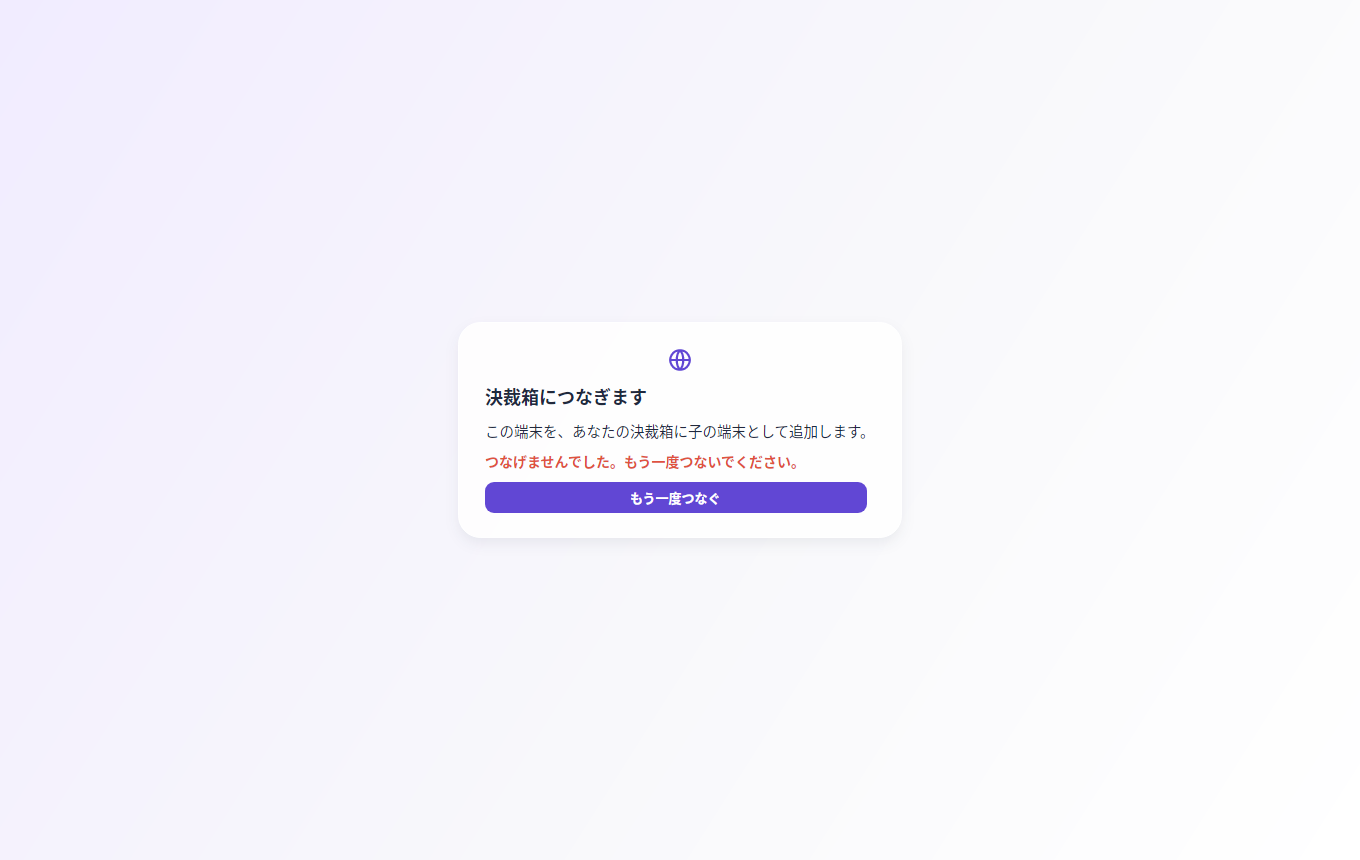
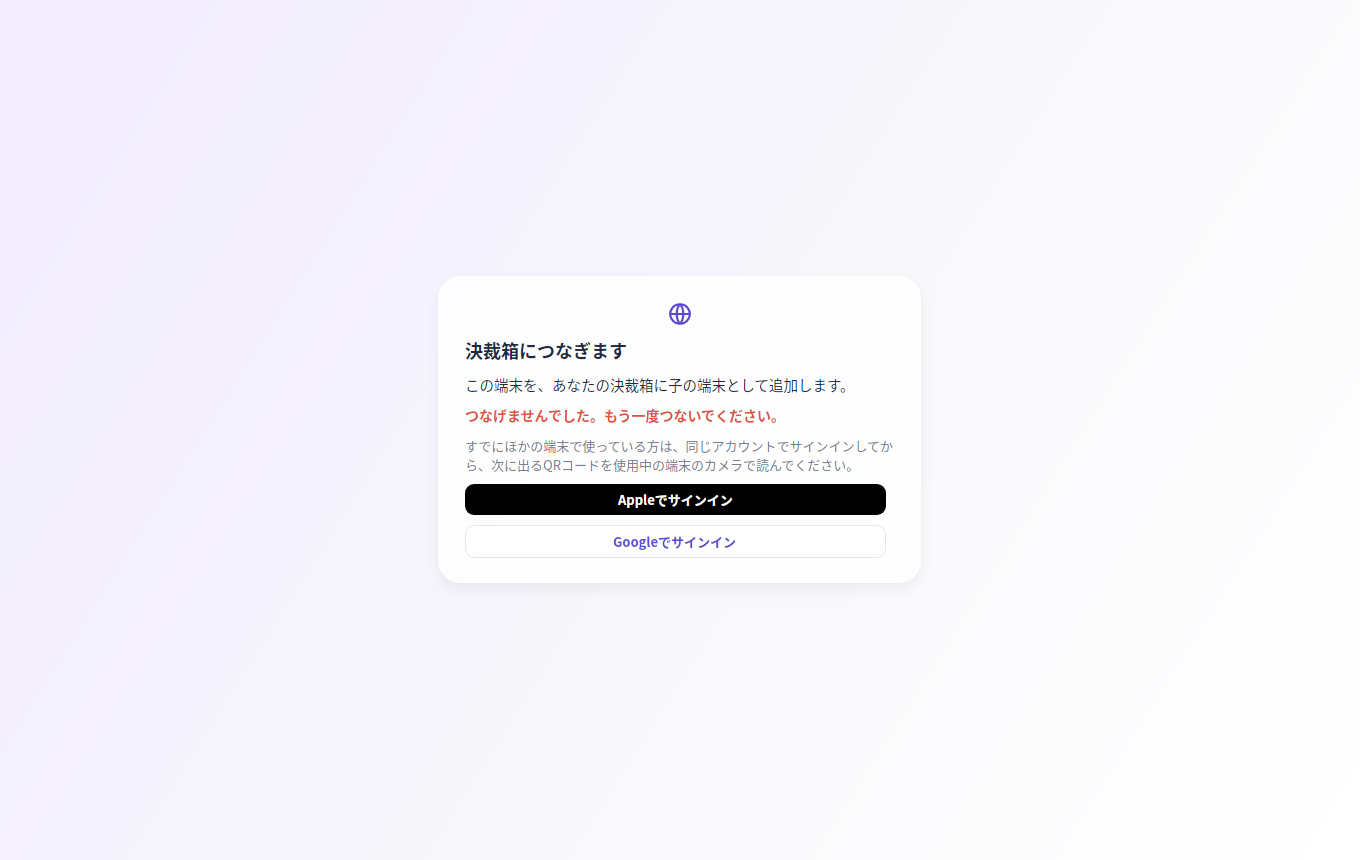
abx-child-join: requestJoin always takes the provider; a failure asks the same sign-in again; notJoined(removed) shows the two buttons (child-join.md #2555)

Changed region(s): [[0.3397, 0.3628, 0.6485, 0.6349]]

diff --git a/linux/BellTeam.Linux.Tests/ApprovalsChildJoinTests.cs b/linux/BellTeam.Linux.Tests/ApprovalsChildJoinTests.cs
@@ -76,14 +76,22 @@ public sealed class ApprovalsChildJoinTests
     });
 
     [Fact]
-    public Task FailedAndRemovedOfferTryAgainWithTheirOwnWords() => Ui.Run(async () =>
+    public Task FailedAsksTheSameSignInAgainAndRemovedStartsClean() => Ui.Run(async () =>
     {
-        var (failed, source, _) = await OpenAsync(new(JoinPhase.Failed));
-        try { Assert.True(Has(failed, ChildJoinText.Failed)); Click(Find(failed, ChildJoinText.ConnectAgain)!); Assert.Equal(["join:again"], source.Calls); } finally { failed.Close(); }
+        // After a sign-in the person chose, a failure offers 「もう一度つなぐ」 with that provider; a failure with no choice known shows the two buttons (requestJoin always takes a provider).
+        var (started, startedSource, startedDevice) = await OpenAsync(new(JoinPhase.NotJoined));
+        try
+        {
+            Click(Find(started, SignInText.Google)!); startedSource.Current = new(JoinPhase.Failed); startedDevice.Refresh(); await Task.Delay(100); Avalonia.Threading.Dispatcher.UIThread.RunJobs();
+            Assert.True(Has(started, ChildJoinText.Failed)); Click(Find(started, ChildJoinText.ConnectAgain)!); Assert.Equal(["join:google", "join:google"], startedSource.Calls);
+        }
+        finally { started.Close(); }
+        var (failed, _, _) = await OpenAsync(new(JoinPhase.Failed));
+        try { Assert.True(Has(failed, ChildJoinText.Failed)); Assert.Null(Find(failed, ChildJoinText.ConnectAgain)); Assert.NotNull(Find(failed, SignInText.Apple)); Assert.NotNull(Find(failed, SignInText.Google)); } finally { failed.Close(); }
         var (other, _, _) = await OpenAsync(new(JoinPhase.Failed, Code: "other_account"));
         try { Assert.True(Has(other, ChildJoinText.OtherAccount)); Assert.False(Has(other, "other_account")); } finally { other.Close(); }
         var (removed, _, _) = await OpenAsync(new(JoinPhase.NotJoined, Removed: true));
-        try { Assert.True(Has(removed, ChildJoinText.Removed)); Assert.NotNull(Find(removed, ChildJoinText.ConnectAgain)); } finally { removed.Close(); }
+        try { Assert.True(Has(removed, ChildJoinText.Removed)); Assert.True(Has(removed, ChildJoinText.Title)); Assert.NotNull(Find(removed, SignInText.Apple)); Assert.NotNull(Find(removed, SignInText.Google)); } finally { removed.Close(); }
     });
 
     [Fact]

diff --git a/linux/BellTeam.Linux/ApprovalsChildJoin.cs b/linux/BellTeam.Linux/ApprovalsChildJoin.cs
@@ -13,6 +13,9 @@ namespace BellTeam.Linux;
 internal sealed partial class ApprovalsWindow
 {
     private bool leaving;   // 「つなぎを外す」 asked once: 外す / やめる
+    private string? lastProvider;   // the button last pressed: 「もう一度つなぐ」 asks the same sign-in again (requestJoin always takes a provider)
+
+    private void Request(string provider) { lastProvider = provider; Device?.RequestJoin(provider); }
 
     private ChildJoinState? Join => Device?.Join;
     /// <summary>The not-joined screen (and the waiting one) takes the whole window.</summary>
@@ -44,13 +47,13 @@ internal sealed partial class ApprovalsWindow
                 column.Children.Add(Text(SignInText.Waiting, 14, Muted, wrap: true));
                 column.Children.Add(Wide(Action(SignInText.Cancel, null), () => Device?.CancelJoin()));
             }
-            else if (join.Phase == JoinPhase.Failed || join.Removed) column.Children.Add(Wide(Action(ChildJoinText.ConnectAgain, null, true), () => Device?.RequestJoin(null)));
+            else if (join.Phase == JoinPhase.Failed && lastProvider is { } again) column.Children.Add(Wide(Action(ChildJoinText.ConnectAgain, null, true), () => Request(again)));
             else
             {
                 column.Children.Add(Text(LocalFormText.FirstSignIn, 13, Muted, wrap: true));
                 // Apple's rule: its button is black and the first, and the only black one.
-                var apple = Wide(Action(SignInText.Apple, null, true), () => Device?.RequestJoin("apple")); apple.Background = Brushes.Black; apple.Foreground = Brushes.White;
-                column.Children.Add(apple); column.Children.Add(Wide(Action(SignInText.Google, null), () => Device?.RequestJoin("google")));
+                var apple = Wide(Action(SignInText.Apple, null, true), () => Request("apple")); apple.Background = Brushes.Black; apple.Foreground = Brushes.White;
+                column.Children.Add(apple); column.Children.Add(Wide(Action(SignInText.Google, null), () => Request("google")));
             }
         }
         var card = Glass(column, 22, new Thickness(26, 24)); card.MaxWidth = 520; card.HorizontalAlignment = HorizontalAlignment.Center; card.VerticalAlignment = VerticalAlignment.Center;

diff --git a/linux/BellTeam.Linux/ApprovalSource.cs b/linux/BellTeam.Linux/ApprovalSource.cs
@@ -24,15 +24,15 @@ internal interface IApprovalSource
 
     // The child join (child-join.md, "The port"): requestJoin / cancelJoin / leave of the Approval Box client component. null = this adapter has no child join (the window keeps its sign-in note); the screen is drawn only when it is set.
     ChildJoinState? Join => null;
-    /// <summary>provider "apple" | "google" = the button the person pressed; null = again, with the library's kept sign-in.</summary>
-    void RequestJoin(string? provider) { }
+    /// <summary>provider "apple" | "google" (the component's requestJoin(provider), child-join.md): the button the person pressed.</summary>
+    void RequestJoin(string provider) { }
     void CancelJoin() { }
     Task LeaveAsync() => Task.CompletedTask;
 }
 
 /// <summary>The component's joinState (child-join.md): NotJoined, SigningIn (notJoined while the browser sign-in of requestJoin runs), Waiting (waitingForParent: the library's join link and its expiry), Failed (a refusal or library failure; the library's code picks the sentence, only other_account has its own, and is never shown), Joined.
-/// Removed: the parent took this device off (a /v1 401 on a joined child), shown once above the not-joined screen.</summary>
-internal enum JoinPhase { NotJoined, SigningIn, Waiting, Failed, Joined }
+/// Removed = notJoined(removed): the parent took this device off, shown above the not-joined screen, which starts clean.</summary>
+internal enum JoinPhase { NotJoined, SigningIn, Waiting, Failed, Joined }   // SigningIn = signingIn(provider)
 internal sealed record ChildJoinState(JoinPhase Phase, string? QrLink = null, DateTimeOffset? ExpiresAt = null, bool Removed = false, string? Code = null);
 
 /// <summary>The peer adapter: this device's /pc/v1 session (<see cref="IDeviceDecisions"/>) behind the port.</summary>

diff --git a/linux/BellTeam.Linux/ApprovalsJoinFixture.cs b/linux/BellTeam.Linux/ApprovalsJoinFixture.cs
@@ -9,7 +9,7 @@ internal sealed class JoinFixtureSource(IApprovalSource inner, ChildJoinState jo
     public ChildJoinState Current { get; set; } = join;
     public readonly List<string> Calls = [];
     public ChildJoinState? Join => Current;
-    public void RequestJoin(string? provider) => Calls.Add("join:" + (provider ?? "again"));
+    public void RequestJoin(string provider) => Calls.Add("join:" + provider);
     public void CancelJoin() => Calls.Add("cancel");
     public Task LeaveAsync() { Calls.Add("leave"); Current = new(JoinPhase.NotJoined); inner.Refresh(); return Task.CompletedTask; }
 

diff --git a/docs/linux-architecture.md b/docs/linux-architecture.md
@@ -38,7 +38,7 @@ flowchart LR
 - `BellTeam.Core`の所有者はアニス。LinuxはそのままProject参照で使い、Coreを変える時は小さなPRでアニスをレビューに入れる。条件はWindowsの挙動を変えないこと、[Windowsアーキテクチャ](windows-architecture.md)のCoreの節を同じ差分で更新すること、実行したBellTeam.Testsの範囲をPRに書くこと（2026-11-12 アニス合意）。
 - `Workspace`（会話一覧・会話・送信・SSE・再接続・下書き）はWindowsの`BellTeam.App`からCoreへ移し、画像の型とUIスレッドへの戻りだけを各アプリが渡す。Windowsは`Workspace : Core.Workspace<BitmapSource>`で呼び出し側を変えない。
 - 機械席（Claude machine mode）の質問と承認（a471）：履歴の`machine_event`のうち、`view`が`question`か`approval`の行は会話ログの白いカード（`MachineRequestCard`）として描く。質問は1問1答なら選択肢を押した時点で答え、複数問・複数選択は選んでから「送る」。「その他」は自由文。承認は「許可」「拒否」。答えは`POST /api/seat-requests/:request_id/answer`だけで返し、画面読み取りもキー送信もしない。`status`が`pending`以外のカードは選択肢を出さず結果の行にする。何も隠さない（`hide`は無く、`fold`以外の`display`は`show`）。`fold`の行は開閉できる1行（`MachineEntry`。既定は閉じ、押すと全文、`truncated`なら「全文を読み込む」で`GET /api/bots/:id/machine-events/:seq`の保存行）で、隣り合う同じ`fold_group`だけを1行にまとめ（Coreの`Timeline.VisibleMachine`。どの行も時間の位置から動かさず、`tool_result`を`tool_use`の下へ引き上げない）、行の名前は`fold_count`の合計n（無ければ1）で決める（`Timeline.FoldLabel`。n>1は「tools ×2」「hook ×3」、n=1は`fold_count`が1の行のメッセージ＝道具名、n=0は「group ×行数」）。開くとその行を時間順に並べ、各行はそれぞれ閉じた1行で、開くと全文（`tool_use`は`tool.summary`）。本体が`tool_use`を畳むと`tools`の行になり、畳まれる前の本体の`show`の`tool_use`は道具名と要約の1行のまま。開閉はアプリの状態で保存しない。`words`の行は、本体が`bubble: true`を付けた行（終わったターンの最後の発言）だけを通常の受信メッセージの吹き出し（保存済みメッセージと同じMarkdown描画）で描き、それ以外の`words`は吹き出しの無い1本の文章で描く（どれが最後かはアプリが決めず、`bubble`だけを読む。印は同じidの行へ後から付き、描き直す。a471-tune-answer。契約は[machine-stream.md](architecture/modules/conversation/machine-stream.md)「Turn answer bubble」）。会話は最初の1ページ（30件）を読んだあと、畳まれた行が多くて行が画面（表示領域）を埋めない間は、古いページを自動で読み続け、埋まるか古い分が無くなるまで続ける（窓を広げた時も同じ。a471-thinking-linux。スクロールと「以前のメッセージを読む」は今まで通り）。見た目と動きはWindowsと同じ。データ側（`TimelineMessage.MachineEvent`・`AnswerSeatRequestAsync`）は[Windowsアーキテクチャ](windows-architecture.md)のCoreの節（アニス）が正本。
-- 決裁箱の子としてのつなぎ（abx-child-join。契約は[child-join.md](architecture/modules/approval-box-extension/child-join.md)、オーナー2026-11-24「Aだ」：BellTeamの決裁箱ウィンドウは、オーナーのApproval Boxに子の端末として入る。親にはならない）：画面は1つ（Androidは同じ`ApprovalsWindow`なので同じ）。ポート`IApprovalSource`に`Join`（`ChildJoinState`：NotJoined・SigningIn・Waiting（ライブラリのjoinリンクと期限）・Failed（コード）・Joined。親に外された時は`Removed`）と`RequestJoin(provider)`・`CancelJoin()`・`LeaveAsync()`を足した（部品の`requestJoin`・`cancelJoin`・`leave`）。`Join`が無いアダプターは今まで通りで、画面は`Join`がある時だけ出る。未接続の間はウィンドウ全体が1枚：「決裁箱につなぎます」・「この端末を、あなたの決裁箱に子の端末として追加します。」・最初の画面と同じサインイン（`LocalFormText.FirstSignIn`・黒い「Appleでサインイン」が先・「Googleでサインイン」）；サインイン中は`SignInText.Waiting`と「やめる」；`Waiting`は「決裁箱の承認を待っています」・QR（ラベル「決裁箱につなぐQRコード」・280px）・「H:mm まで有効」・オーナーのQRの文`LocalFormText.Qr`・「やめる」；失敗は`ChildJoinText.FailedLine(code)`（other_accountだけ専用の文）と「もう一度つなぐ」；親に外された時は「決裁箱で、この端末のつなぎが外されました。」と「もう一度つなぐ」。つながった後は普通の決裁箱で、「工程表との連携」の欄に「決裁箱につながっています」と「つなぎを外す」（2段：外す／やめる。BellTeam自身のサインインには触れない）。つないでいる・つなぎ直し・契約・更新の行は今までの帯のまま（言葉は契約の表と同じ）。語はアニスのCore（`ChildJoin.cs`の`ChildJoinText`）。「ほかの端末を追加する」・購入・プランは出ない（試験`ApprovalsChildJoinTests`）。**まだ部品につないでいない**：決裁箱のサインイン・lbq1・`PassProvider`をこのウィンドウから外す作業は、Nayuta（Approval Boxの部品）の.NET版が出てからで、いまのウィンドウの動作は変えていない。見え方：[未接続](linux-child-join-notjoined.png)・[サインイン中](linux-child-join-signing.png)・[承認待ち](linux-child-join-waiting.png)・[失敗](linux-child-join-failed.png)・[外された](linux-child-join-removed.png)・[つながっている](linux-child-join-live.png)（`--render-approvals-device child-notjoined|child-signing|child-waiting|child-failed|child-removed|child-live`）。
+- 決裁箱の子としてのつなぎ（abx-child-join。契約は[child-join.md](architecture/modules/approval-box-extension/child-join.md)、オーナー2026-11-24「Aだ」：BellTeamの決裁箱ウィンドウは、オーナーのApproval Boxに子の端末として入る。親にはならない）：画面は1つ（Androidは同じ`ApprovalsWindow`なので同じ）。ポート`IApprovalSource`に`Join`（`ChildJoinState`：NotJoined・SigningIn・Waiting（ライブラリのjoinリンクと期限）・Failed（コード）・Joined。親に外された時は`Removed`）と`RequestJoin(provider)`（apple｜google。必ず選んだ方を渡す）・`CancelJoin()`（サインイン中と承認待ちの両方で効く）・`LeaveAsync()`を足した（部品の`requestJoin`・`cancelJoin`・`leave`）。`Join`が無いアダプターは今まで通りで、画面は`Join`がある時だけ出る。未接続の間はウィンドウ全体が1枚：「決裁箱につなぎます」・「この端末を、あなたの決裁箱に子の端末として追加します。」・最初の画面と同じサインイン（`LocalFormText.FirstSignIn`・黒い「Appleでサインイン」が先・「Googleでサインイン」）；サインイン中は`SignInText.Waiting`と「やめる」；`Waiting`は「決裁箱の承認を待っています」・QR（ラベル「決裁箱につなぐQRコード」・280px）・「H:mm まで有効」・オーナーのQRの文`LocalFormText.Qr`・「やめる」；失敗は`ChildJoinText.FailedLine(code)`（other_accountだけ専用の文）と、さっき押した方のサインインでの「もう一度つなぐ」（押した方が分からない時は2つのボタン）；親に外された時（`notJoined(removed)`）は「決裁箱で、この端末のつなぎが外されました。」を未接続の画面の上に置き、ボタンはAppleとGoogleのまま。つながった後は普通の決裁箱で、「工程表との連携」の欄に「決裁箱につながっています」と「つなぎを外す」（2段：外す／やめる。BellTeam自身のサインインには触れない）。つないでいる・つなぎ直し・契約・更新の行は今までの帯のまま（言葉は契約の表と同じ）。語はアニスのCore（`ChildJoin.cs`の`ChildJoinText`）。「ほかの端末を追加する」・購入・プランは出ない（試験`ApprovalsChildJoinTests`）。**まだ部品につないでいない**：決裁箱のサインイン・lbq1・`PassProvider`をこのウィンドウから外す作業は、Nayuta（Approval Boxの部品）の.NET版が出てからで、いまのウィンドウの動作は変えていない。見え方：[未接続](linux-child-join-notjoined.png)・[サインイン中](linux-child-join-signing.png)・[承認待ち](linux-child-join-waiting.png)・[失敗](linux-child-join-failed.png)・[外された](linux-child-join-removed.png)・[つながっている](linux-child-join-live.png)（`--render-approvals-device child-notjoined|child-signing|child-waiting|child-failed|child-removed|child-live`）。
 - 席のツール承認（seat-approval-clients。契約は[seat-approvals.md](architecture/modules/execution/seat-approvals.md)、オーナー2026-11-24）：ツールの承認で止まった席（Claude Code・Codex）の承認を、BellTeamの中で答えられる。読み・答え・言葉はアニスのCore（`SeatApprovals.cs`の`SeatApproval`・`SeatApprovalText`、`Workspace.SeatApprovals`・`SeatApprovalsChanged`・`AnswerSeatApprovalAsync`、`ConversationEntry.SeatApprovalBadge`。Windowsと共通）が持ち、Linuxは描くだけ。メンバー一覧のそのBotの行に「承認待ち」（琥珀）、そのBotの会話の上（起動できない理由の下。`SeatApprovalBar`。Androidへ共通リンク）に項目を、古い順に全部出す：見出し「承認を待っています」・ツール名とAI（例「Bash · Codex」）・コマンドの原文（等幅・選択可。TUIのClaude席はtoolもcommandもnullなので「Botの画面を見てください」）・理由・サーバーの`choices`の2つのラベル（「1回だけ許可する」「許可しない」）。押すと`POST /api/seat-approvals/:id/answer {decision}`を1回だけ（自動再送なし）。送っている間は2つとも押せない。結果のあとは必ず読み直し、409（別の場所で答えられた）は「別の場所で答えられたか、もう承認待ちではありません。」、それ以外の失敗は「いまは送れませんでした。もう一度押してください。」。決裁箱のカード（`card: "filed"`）があってもアプリの項目は残る。Botの画面（`ScreenView`）の許可の帯（`GET …/screen/approval`）は今まで通りで、どちらで答えても最初の答えが勝つ。見え方：[Linux](linux-seat-approvals.png)・[TUIのClaude席](linux-seat-approvals-tui.png)・[Android](android-seat-approvals.png)・[Androidの一覧](android-seat-approvals-list.png)（`--render-conversation`と、本番につながない仮のサーバー）。試験は`SeatApprovalBarTests`。
 - 本体の状態は共通入口のHTTP APIとSSEだけで使う。本体の内部状態を直接読み書きしない。
 
